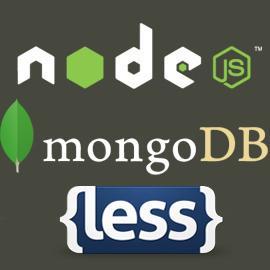
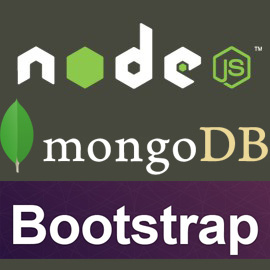
commit

Changed region(s): [[0.0, 0.6519, 1.0, 0.9778]]

diff --git a/index.html b/index.html
@@ -298,49 +298,35 @@
 							<div class="row">
 								<div class="4u">
 									<article class="box">
-										<a href="http://nodejs.org/" target="_blank">
-											<span class="box-info-download"><span class="icon icon-home">Node.js</span></span> 
+										<a href="https://github.com/wenkangzhou/blog" target="_blank">
+											<span class="box-info-download"><span class="icon icon-home">fork</span></span> 
 										</a>
-										<a href="http://www.lesscss.net/article/home.html" target="_blank">
-											<span class="box-info-fork"><span class="icon icon-home">LESSCSS</span></span> 
+										<a href="https://github.com/wenkangzhou/blog" target="_blank">
+											<span class="box-info-fork"><span class="icon icon-home">fork</span></span> 
 										</a>
 										<a href="javascript:void()" class="image full">
 										    <img class="lazy" src="images/lazy.gif" data-original="images/nodejs.jpg" alt="Node.js+MongoDB+LESSCSS"/>
 										</a>
-										<h3>target(one)</h3>
-										<p >利用Node.js+MongoDB+LESSCSS搭建一个小程序。</p>
+										<h3>microblog</h3>
+										<p >利用Node.js+MongoDB+Bootstrap搭建的一个小程序。</p>
 									</article>
 								</div>
 								<div class="4u">
 									<article class="box">
-										<a href="http://angularjs.org/" target="_blank">
-											<span class="box-info-download"><span class="icon icon-home">AngularJS</span></span> 
+										<a href="https://github.com/wenkangzhou/webapp" target="_blank">
+											<span class="box-info-download"><span class="icon icon-home">fork</span></span> 
 										</a>
-										<a href="http://www.bootcss.com/" target="_blank">
-											<span class="box-info-fork"><span class="icon icon-home">Bootstrap</span></span> 
-										</a>
-										<a href="javascript:void()" class="image full">
-											<img class="lazy" src="images/lazy.gif" data-original="images/AngularJS.jpg" alt="AngularJS+Bootstrap"/>
-										</a>
-										<h3>target(two)</h3>
-										<p >利用AngularJS+Bootstrap搭建一个小程序。</p>
-									</article>
-								</div>
-								<div class="4u">
-									<article class="box">
-										<a href="http://backbonejs.org/" target="_blank">
-											<span class="box-info-download"><span class="icon icon-home">Backbone.js</span></span> 
-										</a>
-										<a href="http://seajs.org/" target="_blank">
-											<span class="box-info-fork"><span class="icon icon-home">Sea.js</span></span> 
+										<a href="https://github.com/wenkangzhou/webapp" target="_blank">
+											<span class="box-info-fork"><span class="icon icon-home">fork</span></span> 
 										</a>
 										<a href="javascript:void()" class="image full">
-											<img class="lazy" src="images/lazy.gif" data-original="images/Backbone_Sea.jpg"  alt="Backbone.js+Sea.js+Underscore.js" />
+											<img class="lazy" src="images/lazy.gif" data-original="images/MVC.jpg"  alt="Backbone.js+Require.js+Underscore.js" />
 										</a>
-										<h3>target(three)</h3>
-										<p >利用Underscore.js+Backbone.js+Sea.js搭建一个小程序。</p>
+										<h3>webapp</h3>
+										<p >利用Underscore.js+Backbone.js+Require.js搭建的一个小程序。</p>
 									</article>
 								</div>
+								
 							</div>
 
 						</div>
@@ -761,11 +747,6 @@
 				
 			</div>
 		<!-- Script -->
-			<script type="text/javascript">
-				var _bdhmProtocol = (("https:" == document.location.protocol) ? " https://" : " http://");
-				document.write(unescape("%3Cscript src='" + _bdhmProtocol + "hm.baidu.com/h.js%3Faf90df95fe1074eccebecf69c55a8a5f' type='text/javascript'%3E%3C/script%3E"));
-			</script>
-
 			<script src="js/mediaelement-and-player.min.js"></script>
 			<!--[if lte IE 8]><script src="js/html5shiv.js"></script><![endif]-->
 			<!--[if lte IE]><script>alert("请尽量使用Chrome、 Safari等现代浏览器，以达到最佳体验。")</script><![endif]-->
